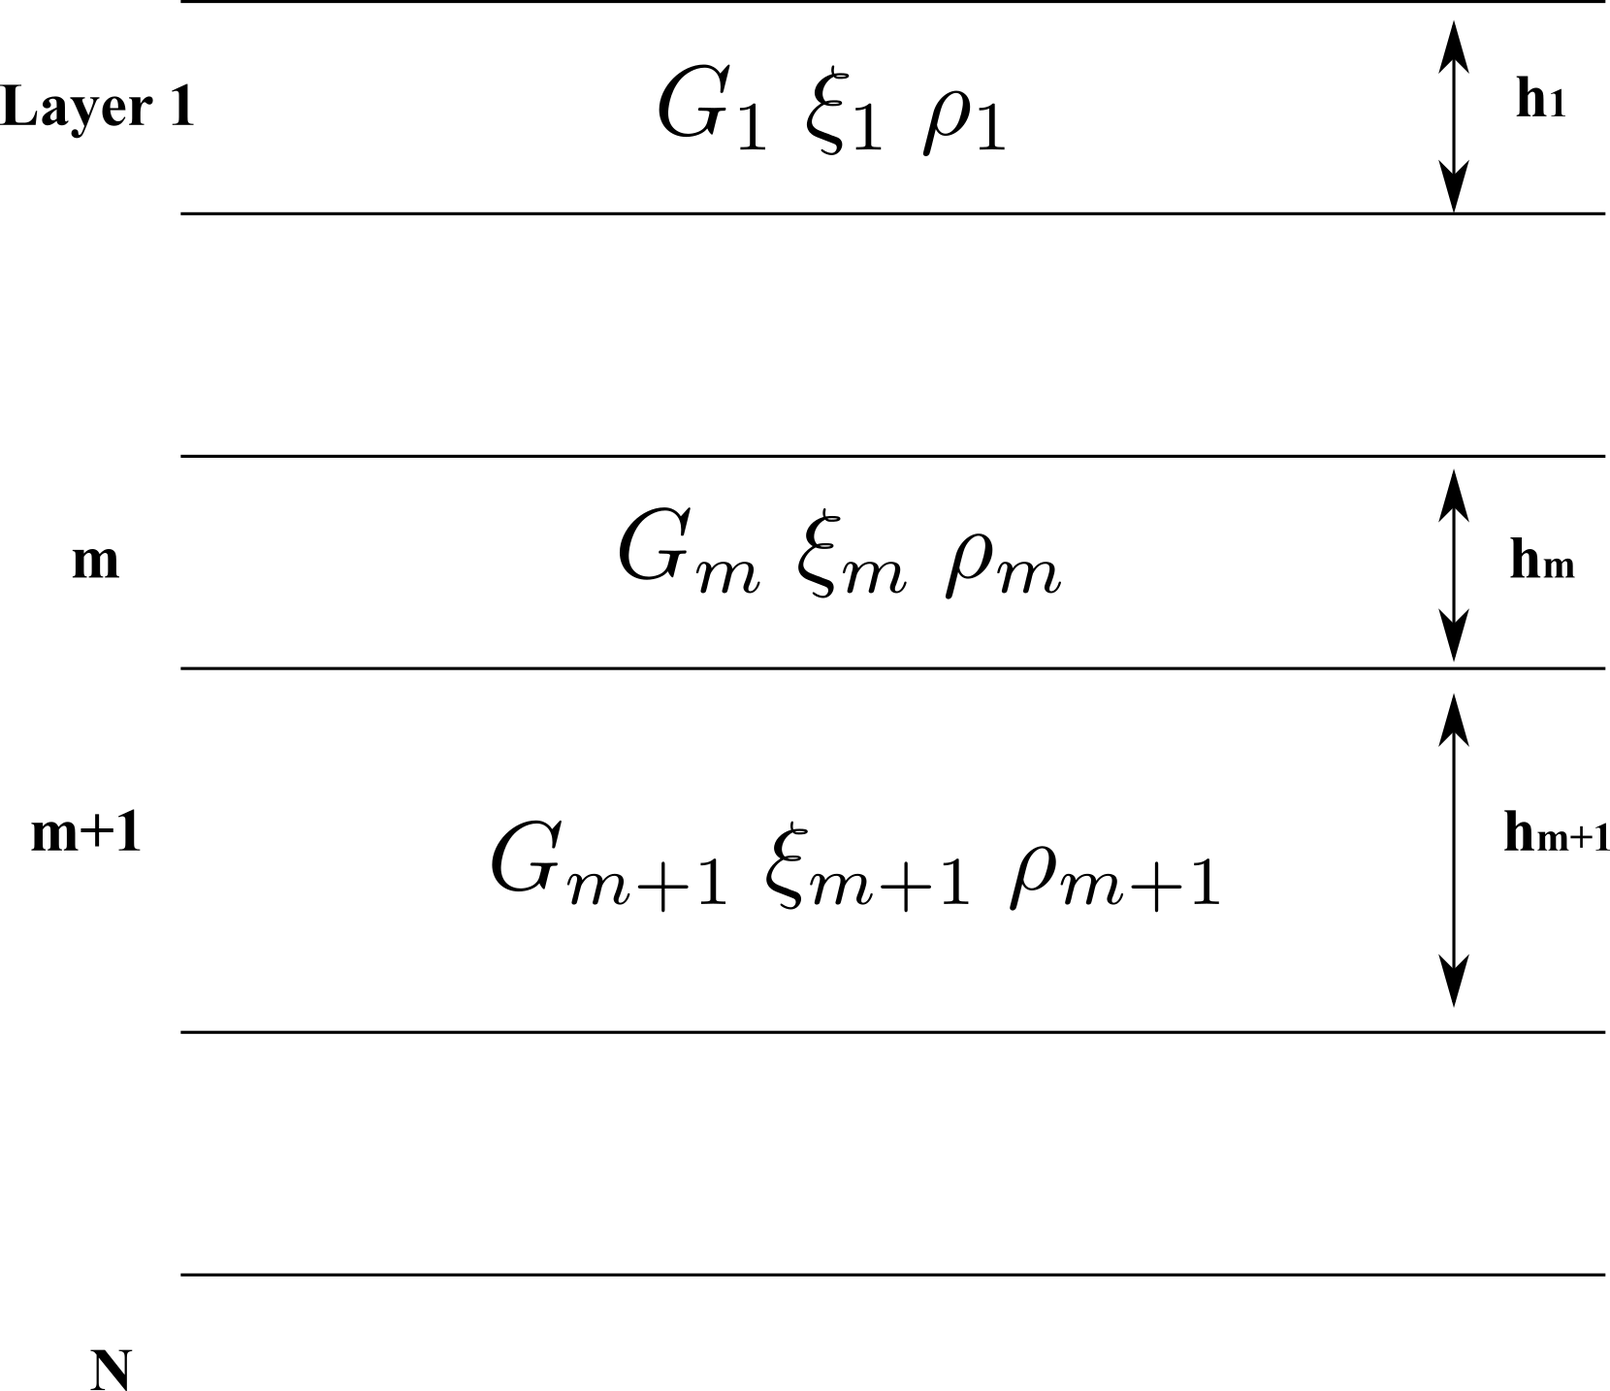
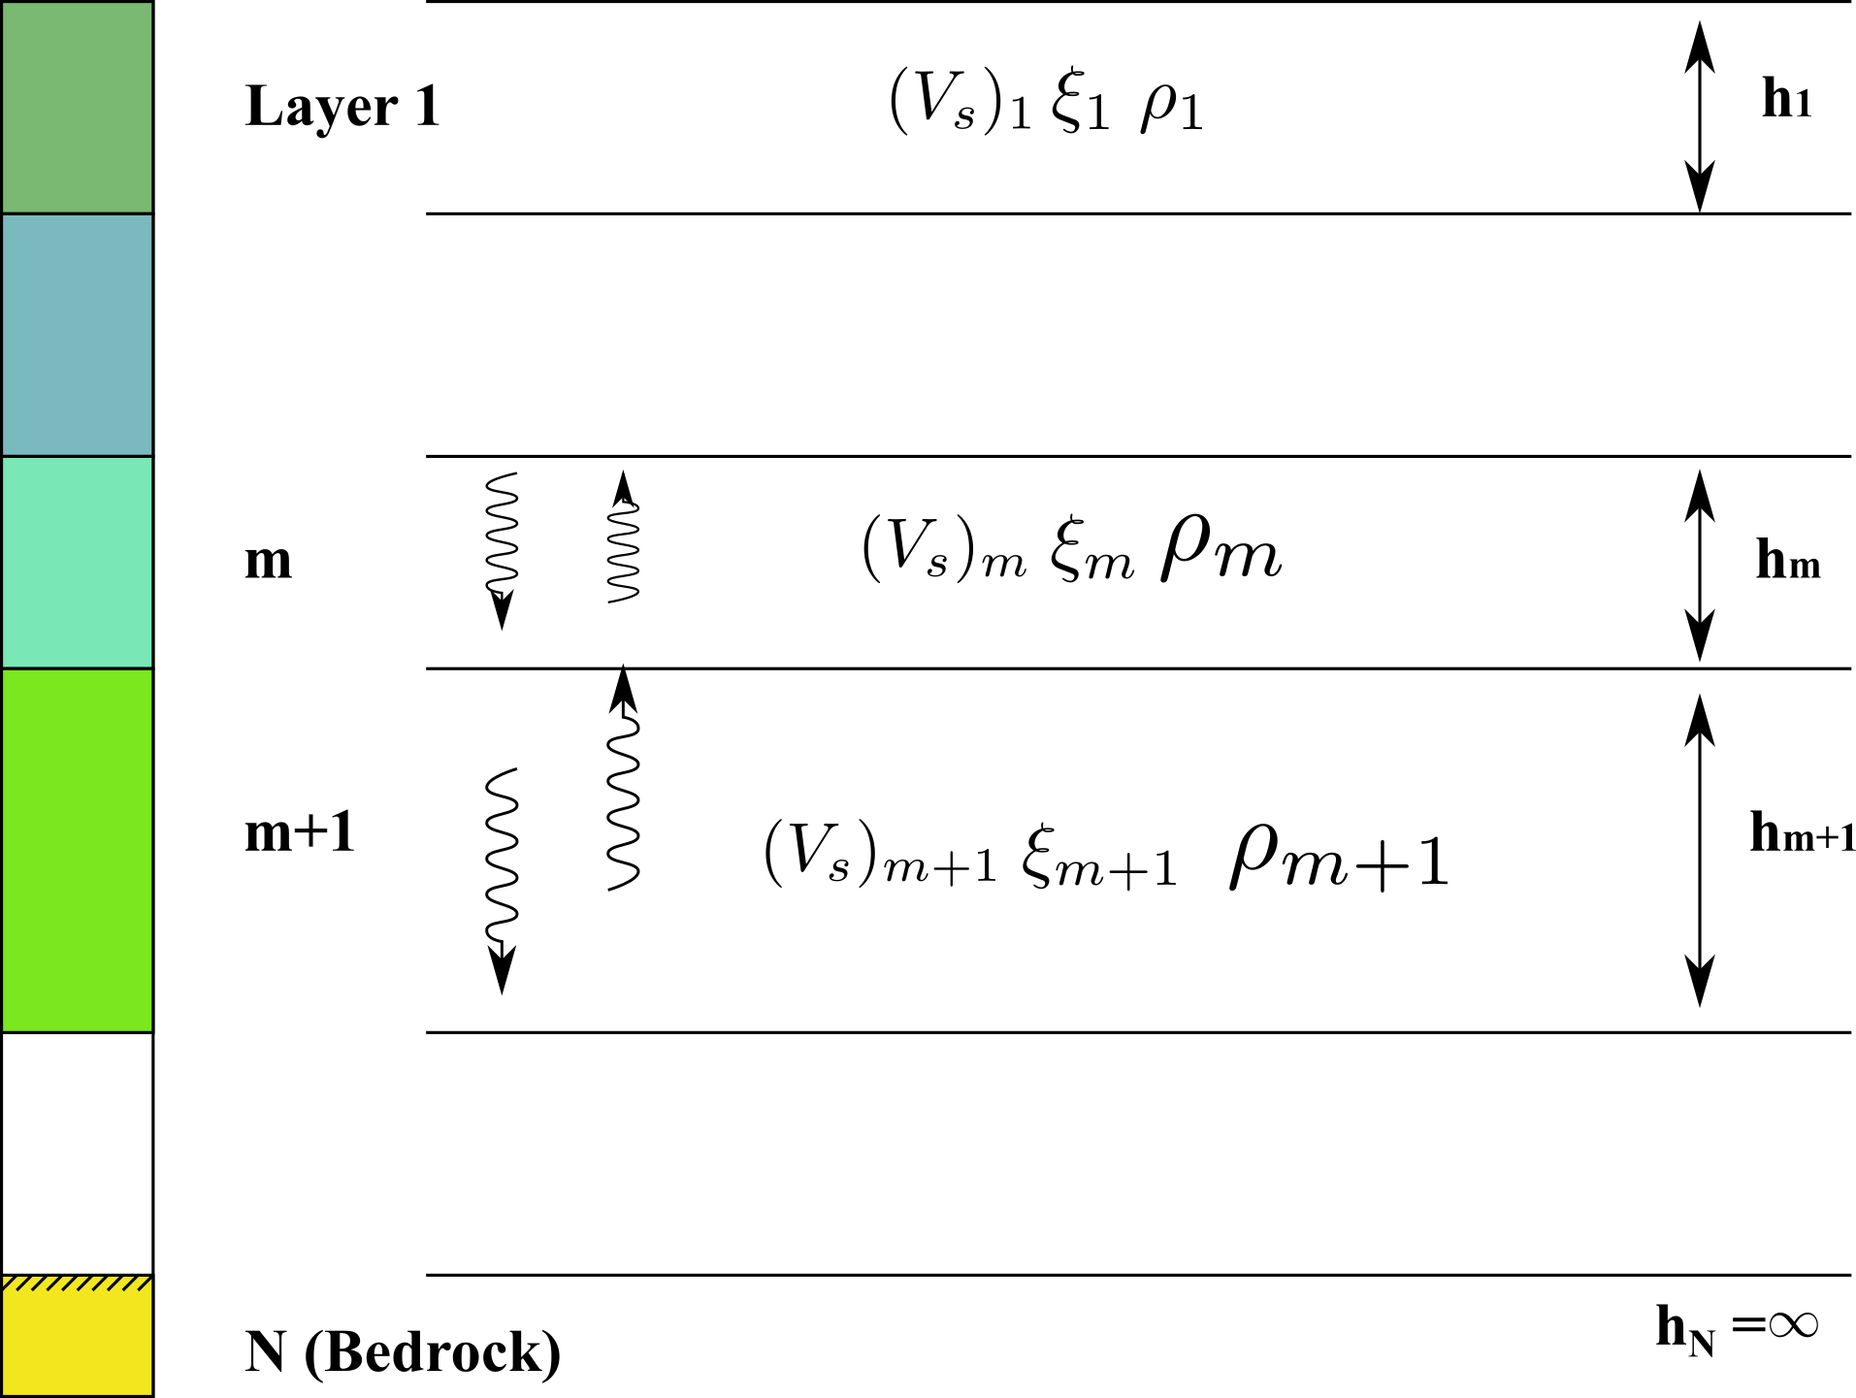
update theory page

diff --git a/searchindex.js b/searchindex.js
@@ -1,1 +1,1 @@
-Search.setIndex({docnames:["how_to_build","index","license","quickstart","theory"],envversion:{"sphinx.domains.c":2,"sphinx.domains.changeset":1,"sphinx.domains.citation":1,"sphinx.domains.cpp":3,"sphinx.domains.index":1,"sphinx.domains.javascript":2,"sphinx.domains.math":2,"sphinx.domains.python":2,"sphinx.domains.rst":2,"sphinx.domains.std":1,sphinx:56},filenames:["how_to_build.rst","index.rst","license.rst","quickstart.rst","theory.rst"],objects:{},objnames:{},objtypes:{},terms:{"1996":[],"2018":[],"9783642196294":[],"case":4,"default":3,"function":[0,2],"import":4,"public":0,"super":4,"switch":3,"while":4,AND:2,ARE:2,Axes:3,BUT:2,FOR:2,For:4,NOT:2,One:1,SUCH:2,THE:2,T_s:4,The:[1,2,3,4],Then:3,These:4,USE:2,Using:0,about:4,abov:2,acceler:4,act:4,activ:3,add:[0,1],advis:2,after:3,all:4,allow:1,also:[1,4],altern:0,amplif:4,amplifi:[1,4],analys:4,analysi:1,ani:[2,3],api:0,app:3,appli:4,applic:1,appropri:4,approxim:4,aris:2,associ:3,assum:3,assumpt:4,axes:1,axi:3,base:4,basic:4,becaus:4,bedrock:[1,3],below:[0,3],binari:2,bincraft:0,bintrai:0,bodi:4,boundari:4,bsd:1,build:1,busi:2,button:[0,3],calcualt:4,calcul:1,california:2,call:4,calus:1,can:[1,3,4],caus:[2,4],chang:[0,1,3],changeabl:3,characterist:[1,4],check:3,checkbox:3,choos:1,claus:2,clear:1,click:[0,3],code:2,com:0,common:4,commun:0,compar:3,conan:0,concept:4,condit:2,consequenti:2,consist:3,content:1,contract:2,contributor:2,control:3,copyright:1,correspond:4,creator:0,current:3,damag:2,damp:[1,3],data:2,deamplifi:4,defin:[1,3],densiti:[1,3,4],depend:4,deposit:[1,4],deriv:2,describ:4,design:4,detail:4,determin:4,develop:[0,1,4],differ:[1,4],dimension:1,direct:2,disclaim:2,displac:4,distribut:2,document:2,domain:4,downhol:4,download:[0,1],each:[1,3,4],earthquak:[3,4],effect:[1,3],elast:1,enabl:3,encoung:4,encount:3,endors:2,engin:4,enviro:0,error:3,etc:3,evalu:1,even:2,event:2,examin:1,exampl:1,exe:3,exemplari:2,express:[2,4],fast:4,fft:4,figur:3,file:[0,3],filter:4,fit:2,focus:1,follow:[0,2,4],form:2,four:4,fourier:4,frac:4,free:0,frequenc:[1,3,4],from:[0,1,2,3,4],fundament:4,gener:3,geolog:4,geotechn:4,github:0,given:1,good:2,greatest:4,ground:1,group:3,half:[3,4],harmon:3,have:2,here:[0,3],highlight:3,holder:2,horizont:4,how:[1,4],howev:[2,3],http:0,imped:4,impli:2,incident:2,includ:[1,2,3],increas:4,indic:3,indirect:2,induc:[1,4],infinit:3,input:[1,4],instal:[0,3],instruct:0,interfac:1,interrupt:2,invers:4,isbn:4,issuer:3,its:[1,2],know:4,kra96:4,kramer:4,latest:3,layer:1,left:3,leverag:2,liabil:2,liabl:2,librai:0,librari:[0,3],licens:1,limit:[2,3,4],linear:4,lineedit:3,liquefact:4,list:2,load:4,lock:1,loss:2,lowest:4,mai:[2,4],main:3,major:3,manag:0,materi:2,media:1,merchant:2,met:2,method:[0,4],microsoft:3,mimick:4,mkl:0,model:4,modif:2,modifi:1,more:4,most:4,motion:[1,4],multipli:4,must:2,name:2,natur:4,necessari:0,neglig:2,neither:2,nheri:0,nor:2,notic:2,obtain:4,occur:4,omega_0:4,one:[1,4],onli:3,open:0,other:2,otherwis:2,out:2,outcrop:4,output:[1,4],packag:[0,2],page:4,paramet:4,parti:2,particular:2,path:0,pearson:4,period:4,permiss:2,permit:2,pip:0,plot:3,polici:2,possibl:2,potenti:4,pre:3,predefin:1,predict:4,predominantli:4,present:4,principl:[1,4],prior:2,pro:0,procur:2,produc:4,product:2,profil:1,profit:2,promot:2,propag:[1,4],properti:1,provid:2,purpos:2,python:0,qmake:0,quick:1,qwt:0,ratio:[1,3,4],reach:4,read:4,record:[3,4],redistribut:2,reflect:4,refract:4,regent:2,reli:4,remot:0,remov:1,replic:4,replot:3,repositori:0,reproduc:2,requir:[0,3],reset:3,respect:4,respons:1,retain:2,rigid:1,rock:1,row:3,run:0,runtim:3,schemat:4,seismic:4,select:1,separ:2,seri:[3,4],servic:2,sever:[2,3],shall:2,shear:[1,3,4],show:3,shown:3,signal:4,simcent:0,simcentercommon:0,simpli:3,sinc:3,site:[1,4],slider:3,softwar:2,soil:1,solv:3,some:4,sourc:[0,2],space:[3,4],special:2,specif:[1,2],spectra:4,start:1,step:4,stiff:4,strain:4,stress:4,strict:2,structur:4,subsequ:3,substitut:2,superposit:4,suppli:1,surfac:[1,4],sweep:3,system:4,tab:3,tabl:3,task:4,tft:1,thei:4,theori:[1,2],thi:[0,1,2,3,4],thick:[1,3],third:2,three:3,through:[1,2,4],thu:[3,4],time:[3,4],tool:[0,2,4],top:3,tort:2,tranfer:[0,1,2],transfer:3,transferfunctiontool:0,transform:4,travel:4,under:[2,3,4],underlain:1,underli:4,understand:1,unit:4,univers:2,upon:4,usag:4,use:[2,4],used:[2,3,4],user:[1,4],using:[0,4],v_s:4,valu:4,vare:4,vari:3,variou:[1,4],vc_redist:3,veloc:[1,3,4],version:3,vertic:4,vibrat:[3,4],view:[3,4],visual:3,wai:2,warranti:2,wave:[1,3,4],well:3,when:[3,4],whether:2,which:2,window:3,within:4,without:2,written:2,x64:3,zip:3},titles:["How to Build","Welcome to TransferFunctionTool\u2019s documentation!","Copyright and license","Quick start","Theory and Examples"],titleterms:{"function":[1,3,4],One:4,add:3,analysi:4,axes:3,bedrock:4,bsd:2,build:0,calus:2,copyright:2,damp:4,differ:3,dimension:4,document:1,download:3,elast:4,evalu:4,exampl:4,ground:4,how:0,input:3,interfac:3,layer:[3,4],licens:2,lock:3,modifi:3,motion:3,properti:3,quick:3,remov:3,respons:4,rigid:4,rock:4,select:3,soil:[3,4],start:3,theori:4,tool:[1,3],tranfer:3,transfer:[1,4],transferfunctiontool:1,undamp:4,unifom:4,uniform:4,user:3,welcom:1,what:1}})
+Search.setIndex({docnames:["how_to_build","index","license","quickstart","theory"],envversion:{"sphinx.domains.c":2,"sphinx.domains.changeset":1,"sphinx.domains.citation":1,"sphinx.domains.cpp":3,"sphinx.domains.index":1,"sphinx.domains.javascript":2,"sphinx.domains.math":2,"sphinx.domains.python":2,"sphinx.domains.rst":2,"sphinx.domains.std":1,sphinx:56},filenames:["how_to_build.rst","index.rst","license.rst","quickstart.rst","theory.rst"],objects:{},objnames:{},objtypes:{},terms:{"1996":[],"2018":[],"9783642196294":[],"case":4,"default":3,"function":[0,2],"import":[3,4],"public":0,"super":4,"switch":3,"while":4,AND:2,ARE:2,Axes:3,BUT:2,FOR:2,For:4,NOT:2,One:1,SUCH:2,THE:2,T_s:4,The:[1,2,3,4],Then:3,These:4,USE:2,Using:0,_mk:4,about:4,abov:2,acceler:4,act:4,activ:3,add:[0,1],addit:3,advis:2,after:3,all:4,allow:1,alpha_z:4,also:[1,3,4],altern:0,amplif:4,amplifi:[1,4],amplitud:4,analys:4,analysi:1,ani:[2,3,4],api:0,app:3,appli:4,applic:1,appropri:4,approxim:4,aris:2,associ:3,assum:3,assumpt:4,axes:1,axi:3,back:4,base:4,basic:4,becaus:4,bedrock:[1,3],below:[0,3],binari:2,bincraft:0,bintrai:0,bodi:4,both:4,boundari:4,bsd:1,build:1,busi:2,button:[0,3],calcualt:4,calcul:1,california:2,call:4,calus:1,can:[1,3,4],caus:[2,4],chang:[0,1,3],changeabl:3,characterist:[1,4],check:3,checkbox:3,choos:1,claus:2,clear:1,click:[0,3],code:2,com:0,common:4,commun:0,compar:3,complet:4,complex:4,conan:0,concept:4,condit:2,consequenti:2,consist:3,content:1,contract:2,contributor:2,control:3,copyright:1,correspond:4,creator:0,current:3,damag:2,damp:[1,3],data:2,deamplifi:4,defin:[1,3,4],densiti:[1,3,4],depend:4,deposit:[1,4],deriv:2,describ:4,design:4,detail:4,determin:4,develop:[0,1,4],differ:[1,4],dimension:1,direct:2,disclaim:2,displac:4,distribut:2,document:2,domain:4,downhol:4,download:[0,1],downward:4,due:4,each:[1,3,4],earthquak:[3,4],effect:[1,3],elast:1,enabl:3,encoung:4,encount:3,endors:2,energi:4,engin:4,enviro:0,error:3,etc:3,evalu:1,even:2,event:2,examin:1,exampl:[1,3],exe:3,exemplari:2,exist:4,express:[2,4],fast:4,fft:4,figur:3,file:[0,3],filter:4,fit:2,focus:1,follow:[0,2,4],form:[2,4],found:3,four:4,fourier:4,frac:4,fraction:4,free:[0,4],frequenc:[1,3,4],from:[0,1,2,3,4],fundament:4,gener:3,geolog:4,geotechn:4,github:0,given:1,good:2,greatest:4,ground:1,group:3,half:[3,4],hand:4,harmon:3,have:2,here:[0,3],highlight:3,holder:2,horizont:4,how:[1,4],howev:[2,3],http:0,ignor:4,imped:4,impli:2,incident:2,includ:[1,2,3],increas:4,indic:3,indirect:2,induc:[1,4],infinit:3,input:[1,4],instal:[0,3],instruct:0,interfac:[1,4],interrupt:2,invers:4,isbn:4,issuer:3,its:[1,2],json:3,know:4,kra96:4,kramer:4,latest:3,layer:1,left:3,leverag:2,liabil:2,liabl:2,librai:0,librari:[0,3],licens:1,limit:[2,3,4],linear:4,lineedit:3,liquefact:4,list:2,load:[3,4],lock:1,loss:2,lost:4,lowest:4,mai:[2,4],main:3,major:3,manag:0,materi:2,media:1,merchant:2,met:2,method:[0,4],microsoft:3,mimick:4,mkl:0,model:4,modif:2,modifi:1,modulu:4,more:4,most:4,motion:[1,4],multipli:4,must:2,name:2,natur:4,necessari:0,neglig:2,neither:2,nheri:0,nor:2,notic:2,number:4,obtain:4,occur:4,omega_0:4,one:[1,4],onli:[3,4],open:0,option:3,other:[2,4],otherwis:2,out:2,outcrop:4,output:[1,4],packag:[0,2],page:4,paramet:4,part:4,parti:2,particular:2,path:0,pearson:4,period:4,permiss:2,permit:2,pip:0,plot:3,polici:2,possibl:2,potenti:4,pre:3,predefin:1,predict:4,predominantli:4,present:4,principl:[1,4],prior:2,pro:0,procur:2,produc:4,product:2,profil:[1,4],profit:2,promot:2,propag:[1,4],properti:1,provid:2,purpos:2,python:0,qmake:0,quick:1,qwt:0,radiat:4,ratio:[1,3,4],reach:4,read:4,record:[3,4],redistribut:2,reflect:4,refract:4,regent:2,reli:4,remot:0,remov:1,replic:4,replot:3,repositori:[0,3],reproduc:2,requir:[0,3],reset:3,respect:4,respons:1,retain:2,rho_:4,rho_m:4,rigid:1,rock:1,row:3,run:0,runtim:3,schemat:4,seismic:4,select:1,separ:2,seri:[3,4],servic:2,sever:[2,3],shall:2,shear:[1,3,4],show:3,shown:3,signal:4,simcent:0,simcentercommon:0,simpli:3,sinc:3,site:[1,4],slider:3,smaller:4,softwar:2,soil:1,solv:3,some:4,sourc:[0,2],space:[3,4],special:2,specif:[1,2],spectra:4,start:1,step:4,stiff:4,strain:4,stress:4,strict:2,structur:4,subsequ:3,substitut:2,superposit:4,suppli:1,support:3,surfac:[1,4],sweep:3,system:4,tab:3,tabl:3,task:4,tft:1,than:4,thei:4,theori:[1,2],thi:[0,1,2,3,4],thick:[1,3],third:2,those:4,three:3,through:[1,2,4],thu:[3,4],time:[3,4],tool:[0,2,4],top:3,tort:2,toward:4,tranfer:[0,1,2],transfer:3,transferfunctiontool:0,transform:4,transmit:4,trap:4,travel:4,under:[2,3,4],underlain:1,underli:4,understand:1,unit:4,univers:2,upon:4,upward:4,usag:4,use:[2,4],used:[2,3,4],user:[1,4],using:[0,4],v_s:4,valu:4,vare:4,vari:3,variou:[1,4],vc_redist:3,veloc:[1,3,4],version:3,vertic:4,vibrat:[3,4],view:[3,4],visual:3,wai:2,warranti:2,wave:[1,3,4],well:3,when:[3,4],where:4,whether:2,which:2,window:3,within:4,without:2,written:2,x64:3,zip:3},titles:["How to Build","Welcome to TransferFunctionTool\u2019s documentation!","Copyright and license","Quick start","Theory and Examples"],titleterms:{"function":[1,3,4],One:4,add:3,analysi:4,axes:3,bedrock:4,bsd:2,build:0,calus:2,copyright:2,damp:4,differ:3,dimension:4,document:1,download:3,elast:4,evalu:4,exampl:4,ground:4,how:0,input:3,interfac:3,layer:[3,4],licens:2,lock:3,modifi:3,motion:3,properti:3,quick:3,remov:3,respons:4,rigid:4,rock:4,select:3,soil:[3,4],start:3,theori:4,tool:[1,3],tranfer:3,transfer:[1,4],transferfunctiontool:1,undamp:4,unifom:4,uniform:4,user:3,welcom:1,what:1}})

diff --git a/theory.html b/theory.html
@@ -57,9 +57,6 @@
           
 
           
-            
-            <img src="_static/SimCenter_TFT_logo.png" class="logo" alt="Logo"/>
-          
           </a>
 
           
@@ -203,38 +200,47 @@ superposition, this analysis is limited to the analysis of linear system.</p>
 </div>
 <div class="section" id="evaluation-of-transfer-function">
 <h2>Evaluation of Transfer function<a class="headerlink" href="#evaluation-of-transfer-function" title="Permalink to this headline">¶</a></h2>
+<p>Within the profile, both upward and downward travelling waves exist due to reflection at each layer boundary (refraction
+is ignored in 1D assumption). When the bedrock is rigid, any downward travelling waves in the soil will be completely reflected back toward the
+ground surface. Thus all elastic wave energy is trapped in the system. Elastic bedrock, on the other hand, will only reflects part of the
+downward travelling waves that reaches the soil-rock interface; part of elastic wave energy is transmitted through the interface and lost from
+the system. This is a form of radiation damping and it causes the free surface motion amplitudes to be smaller than those for the case of
+rigid bedrock. The fraction of reflected waves depends on the <em>complex impedance ratio</em>, <span class="math notranslate nohighlight">\(\alpha_z\)</span>, that is defined as,</p>
+<div class="math notranslate nohighlight">
+\[\frac{G^*_mk^*_m}{G^*_{m+1}k^*_{m+1}} = \frac{\rho_m(v_s^*)_m}{\rho_{m+1}(v_s^*)_{m+1}} \,,\]</div>
+<p>where <span class="math notranslate nohighlight">\(G^*,\,k^*,\,v_s^*\)</span> are complex shear modulus, complex wave number, and complex shear wave velocity, respectively.</p>
+<div class="align-center figure" id="id3">
+<a class="reference internal image-reference" href="_images/schematic.png"><img alt="_images/schematic.png" src="_images/schematic.png" style="width: 382.6px; height: 288.2px;" /></a>
+<p class="caption"><span class="caption-text">Schematic for a layered soil deposit on rock</span><a class="headerlink" href="#id3" title="Permalink to this image">¶</a></p>
+</div>
 <p><a class="bibtex reference internal" href="#kramer1996" id="id2">[Kra96]</a> presents details about evaluation of transfer functions for four different cases by varing the assumptions for soil and
 bedrock, respectively. These cases can be replicated using this tool:</p>
 <div class="section" id="unifom-undamped-soil-on-rigid-rock">
 <h3>Unifom, undamped soil on rigid rock<a class="headerlink" href="#unifom-undamped-soil-on-rigid-rock" title="Permalink to this headline">¶</a></h3>
-<div class="align-center figure" id="id3">
+<div class="align-center figure" id="id4">
 <a class="reference internal image-reference" href="_images/case1.png"><img alt="_images/case1.png" src="_images/case1.png" style="width: 315.20000000000005px; height: 238.20000000000002px;" /></a>
-<p class="caption"><span class="caption-text">Transfer function for an uniform, undamped soil on rigid rock</span><a class="headerlink" href="#id3" title="Permalink to this image">¶</a></p>
+<p class="caption"><span class="caption-text">Transfer function for an uniform, undamped soil on rigid rock</span><a class="headerlink" href="#id4" title="Permalink to this image">¶</a></p>
 </div>
 </div>
 <div class="section" id="uniform-damped-soil-on-rigid-rock">
 <h3>Uniform, damped soil on rigid rock<a class="headerlink" href="#uniform-damped-soil-on-rigid-rock" title="Permalink to this headline">¶</a></h3>
-<div class="align-center figure" id="id4">
+<div class="align-center figure" id="id5">
 <a class="reference internal image-reference" href="_images/case2.png"><img alt="_images/case2.png" src="_images/case2.png" style="width: 315.20000000000005px; height: 238.20000000000002px;" /></a>
-<p class="caption"><span class="caption-text">Transfer function for an uniform, damped soil on rigid rock</span><a class="headerlink" href="#id4" title="Permalink to this image">¶</a></p>
+<p class="caption"><span class="caption-text">Transfer function for an uniform, damped soil on rigid rock</span><a class="headerlink" href="#id5" title="Permalink to this image">¶</a></p>
 </div>
 </div>
 <div class="section" id="unifom-damped-soil-on-elastic-rock">
 <h3>Unifom, damped soil on elastic rock<a class="headerlink" href="#unifom-damped-soil-on-elastic-rock" title="Permalink to this headline">¶</a></h3>
-<div class="align-center figure" id="id5">
+<div class="align-center figure" id="id6">
 <a class="reference internal image-reference" href="_images/case3.png"><img alt="_images/case3.png" src="_images/case3.png" style="width: 315.20000000000005px; height: 238.20000000000002px;" /></a>
-<p class="caption"><span class="caption-text">Transfer function for an uniform, damped soil on elastic rock with impedance ratio = 0.5</span><a class="headerlink" href="#id5" title="Permalink to this image">¶</a></p>
+<p class="caption"><span class="caption-text">Transfer function for an uniform, damped soil on elastic rock with impedance ratio = 0.5</span><a class="headerlink" href="#id6" title="Permalink to this image">¶</a></p>
 </div>
 </div>
 <div class="section" id="layered-damped-soil-on-elastic-rock">
 <h3>Layered, damped soil on elastic rock<a class="headerlink" href="#layered-damped-soil-on-elastic-rock" title="Permalink to this headline">¶</a></h3>
-<div class="align-center figure" id="id6">
-<a class="reference internal image-reference" href="_images/case4.png"><img alt="_images/case4.png" src="_images/case4.png" style="width: 315.20000000000005px; height: 238.20000000000002px;" /></a>
-<p class="caption"><span class="caption-text">Transfer function for layered, damped soil on elastic rock</span><a class="headerlink" href="#id6" title="Permalink to this image">¶</a></p>
-</div>
 <div class="align-center figure" id="id7">
-<a class="reference internal image-reference" href="_images/schematic.png"><img alt="_images/schematic.png" src="_images/schematic.png" style="width: 332.0px; height: 286.8px;" /></a>
-<p class="caption"><span class="caption-text">Schematic for a layered soil deposit on elastic rock</span><a class="headerlink" href="#id7" title="Permalink to this image">¶</a></p>
+<a class="reference internal image-reference" href="_images/case4.png"><img alt="_images/case4.png" src="_images/case4.png" style="width: 315.20000000000005px; height: 238.20000000000002px;" /></a>
+<p class="caption"><span class="caption-text">Transfer function for layered, damped soil on elastic rock</span><a class="headerlink" href="#id7" title="Permalink to this image">¶</a></p>
 </div>
 </div>
 </div>

diff --git a/quickstart.html b/quickstart.html
@@ -57,9 +57,6 @@
           
 
           
-            
-            <img src="_static/SimCenter_TFT_logo.png" class="logo" alt="Logo"/>
-          
           </a>
 
           
@@ -202,6 +199,8 @@ Subsequently, lineedits and sliders are associated to the selected layer.</p>
 <h2>Select a different input motion<a class="headerlink" href="#select-a-different-input-motion" title="Permalink to this headline">¶</a></h2>
 <p>Several input motions are pre-included in this tool including earthquake recordings, harmonic vibration, as well as frequency sweep time series. The frequency lineedit and
 slider can be used to vary the frequency of the harmonic vibration, thus will only be enabled when this motion is selected.</p>
+<p>Additional motions can also be imported and viewed in this tool by checking the <em>Load User Motion</em> option. Current version only supports JSON version. Examples of input
+motion json file can be found at <a class="reference external" href="https://github.com/NHERI-SimCenter/TransferFunctionTool/tree/master/resources/motions">in the repository</a>.</p>
 </div>
 <div class="section" id="lock-axes">
 <h2>Lock axes<a class="headerlink" href="#lock-axes" title="Permalink to this headline">¶</a></h2>

diff --git a/genindex.html b/genindex.html
@@ -55,9 +55,6 @@
           
 
           
-            
-            <img src="_static/SimCenter_TFT_logo.png" class="logo" alt="Logo"/>
-          
           </a>
 
           

diff --git a/how_to_build.html b/how_to_build.html
@@ -57,9 +57,6 @@
           
 
           
-            
-            <img src="_static/SimCenter_TFT_logo.png" class="logo" alt="Logo"/>
-          
           </a>
 
           

diff --git a/index.html b/index.html
@@ -56,9 +56,6 @@
           
 
           
-            
-            <img src="_static/SimCenter_TFT_logo.png" class="logo" alt="Logo"/>
-          
           </a>
 
           

diff --git a/license.html b/license.html
@@ -56,9 +56,6 @@
           
 
           
-            
-            <img src="_static/SimCenter_TFT_logo.png" class="logo" alt="Logo"/>
-          
           </a>
 
           

diff --git a/search.html b/search.html
@@ -57,9 +57,6 @@
           
 
           
-            
-            <img src="_static/SimCenter_TFT_logo.png" class="logo" alt="Logo"/>
-          
           </a>
 
           
